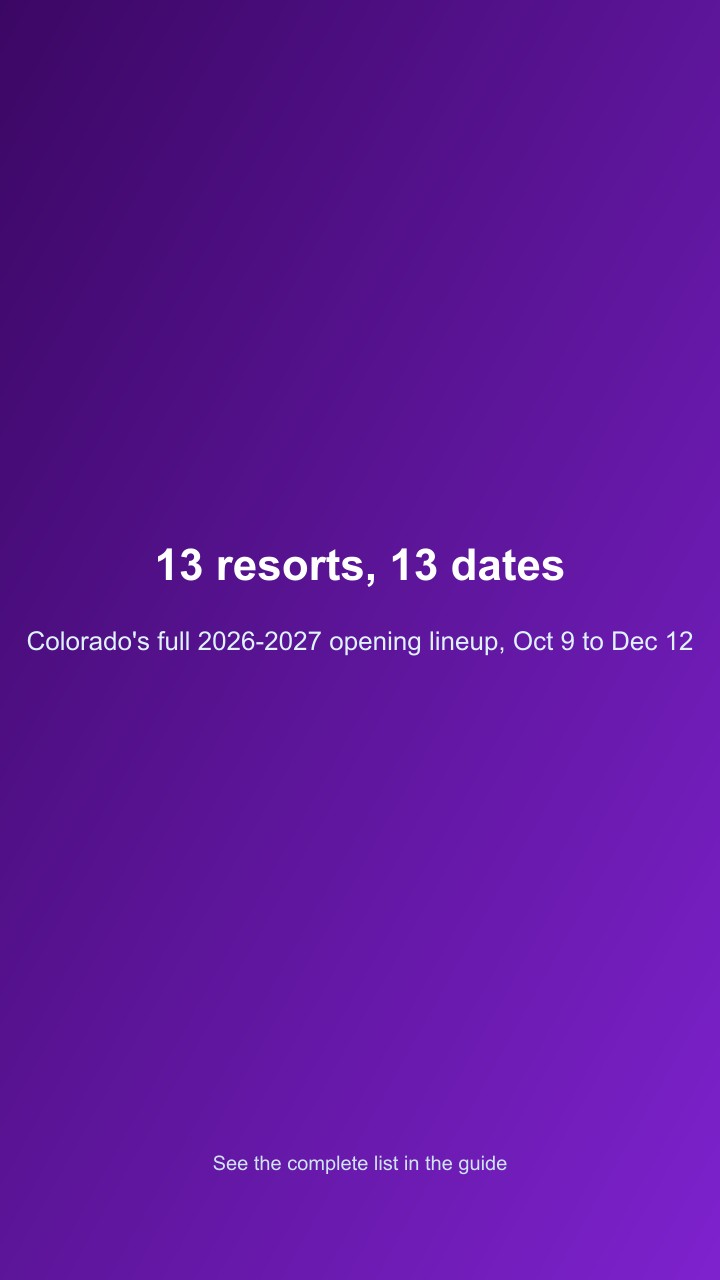
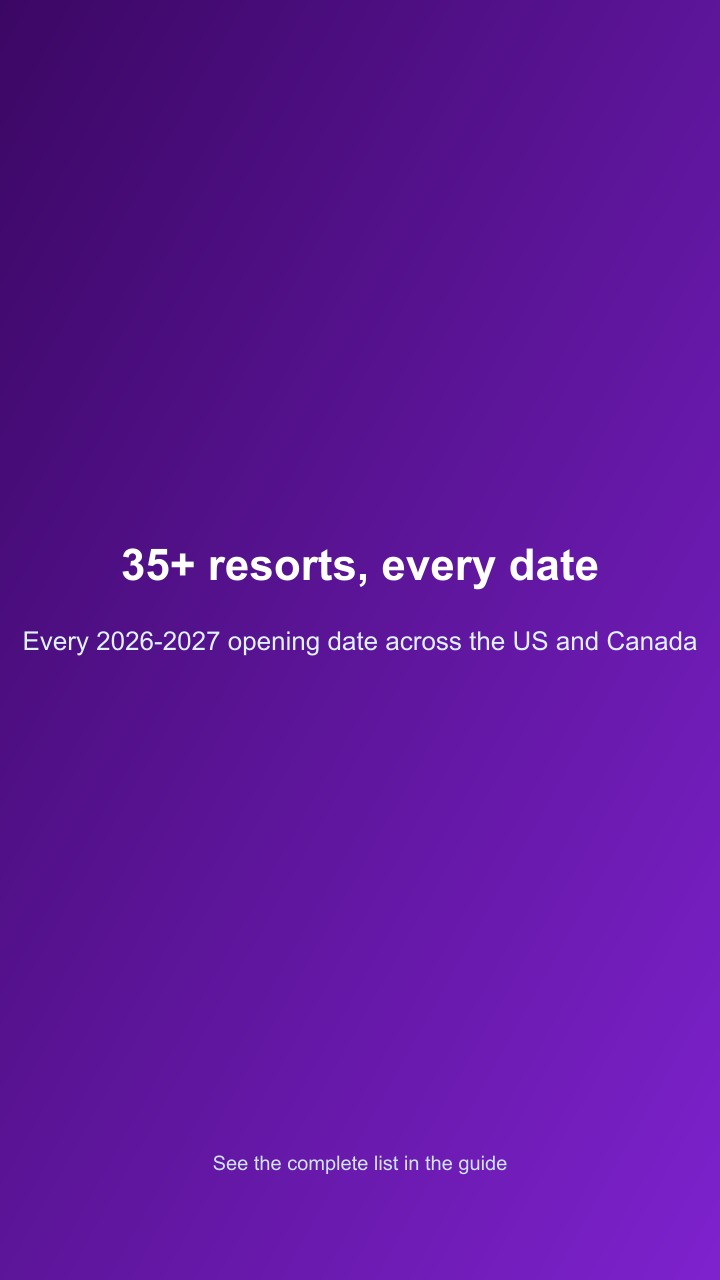
Expand ski season web story to North America scope
Matches the article's expansion from Colorado-only to 35+ resorts
across the US and Canada.

Claude-Session: https://claude.ai/code/session_0137wNLphAPmSsEruyDiu6i5

Changed region(s): [[0.0306, 0.4062, 0.9778, 0.5312]]

diff --git a/lib/web-stories.ts b/lib/web-stories.ts
@@ -2570,7 +2570,7 @@ export const webStories: WebStory[] = [
     postSlug: "ski-season-2026-2027-opening-dates",
     title: "Ski Season 2026-2027: The Race to Open",
     description:
-      "Arizona Snowbowl already got real snow. Arapahoe Basin is targeting October 9. Every Colorado resort's 2026-2027 opening date, and how resorts open this early.",
+      "Arizona Snowbowl already got real snow. Arapahoe Basin is targeting October 9. 35+ resorts across the US and Canada now have an opening date, and here's how resorts open this early.",
     pages: [
       {
         image: SS + "story-1.jpg",
@@ -2595,10 +2595,10 @@ export const webStories: WebStory[] = [
       },
       {
         image: SS + "story-4.jpg",
-        alt: "A purple card reading 13 resorts 13 dates, Colorado's full 2026-2027 opening lineup, October 9 to December 12",
+        alt: "A purple card reading 35 plus resorts, every 2026-2027 opening date across the US and Canada, October 9 to December 31",
         kicker: "The full list",
-        heading: "13 resorts, 13 dates",
-        text: "Colorado's complete opening lineup for 2026-2027. See every date in the guide.",
+        heading: "35+ resorts, every date",
+        text: "Every announced 2026-2027 opening date, US and Canada. See the full list in the guide.",
       },
       {
         image: SS + "story-5.jpg",
